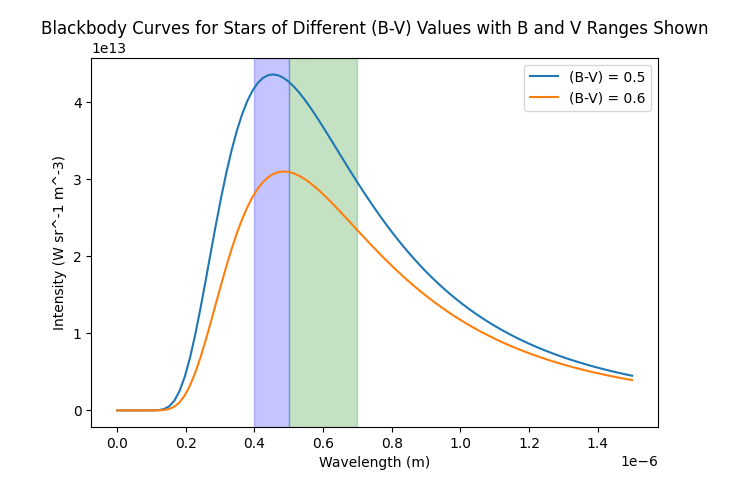
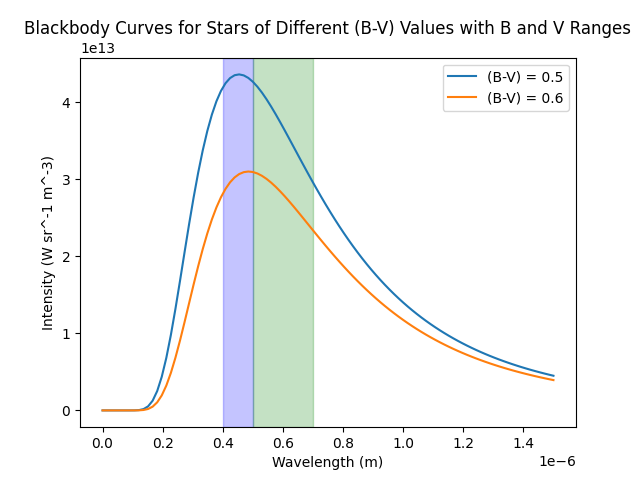
BV ranges

diff --git a/BO_AC_4/part1.py b/BO_AC_4/part1.py
@@ -57,7 +57,7 @@ line1 = plt.plot(wavelengths, intensities1, label="(B-V) = 0.5")
 line2 = plt.plot(wavelengths, intensities2, label="(B-V) = 0.6")
 
 # Labels
-plt.title("Blackbody Curves for Stars of Different (B-V) Values with B and V Ranges Shown")
+plt.title("Blackbody Curves for Stars of Different (B-V) Values with B and V Ranges")
 plt.xlabel("Wavelength (m)")
 plt.ylabel("Intensity (W sr^-1 m^-3)")
 
